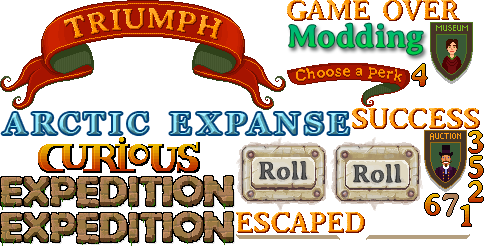
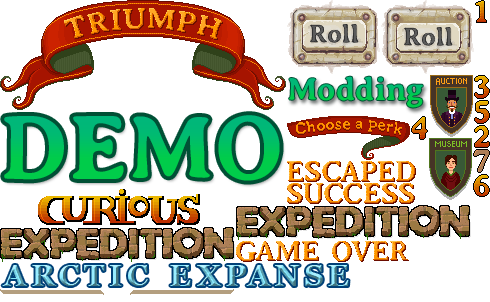
1.3.9.8

diff --git a/conf/game.conf.js b/conf/game.conf.js
@@ -420,7 +420,7 @@ var staticConfig =
   enableAchievements: true,
   showMods: true,
   showReport: false,
-  footerName: "1.3.8.6",
+  footerName: "1.3.9.8",
   sanityCheckEvents: true,
 
   // is converted to config.diaryText at run-time
@@ -661,6 +661,7 @@ var config = {
     info: {img:'hud_info_border.png', offset:60, scale: 0.5},
     action: {img:'hud_actionButton.png', offset:24, scale: 0.5},
     extraAction: {sprite:'hud_button_blank.png', offset:4, scale: 0.5},
+    demoTutorial: {sprite:'hud_button_blank.png', offset:4, scale: 1},
     menuButton: {sprite:'hud_button_menu.png', offset:7, scale:1},
     mapButton: {sprite:'hud_button_menu.png', offset:7, scale:1},
     modFrame: {sprite:'hud_frame_mod.png', offset:7, scale:1},
@@ -1024,6 +1025,16 @@ var config = {
     'txt-tip-18',
     'txt-tip-19',
     'txt-tip-20',
+    'txt-tip-21',
+    'txt-tip-22',
+    'txt-tip-23',
+    'txt-tip-24',
+    'txt-tip-25',
+    'txt-tip-26',
+    'txt-tip-27',
+    'txt-tip-28',
+    'txt-tip-29',
+    'txt-tip-30',
   ],
 
   colors: {
@@ -1195,6 +1206,7 @@ var config = {
       resetProfile: "txt-help-settings-resetProfile",
       saving: "txt-help-settings-saving",
       quit: "txt-help-settings-quit",
+      restartDemo: "txt-help-demo-restart",
 
       scale1: ["txt-help-settings-scale1", "txt-help-settings-scale-refuse"],
       scale2: ["txt-help-settings-scale2", "txt-help-settings-scale-refuse"],
@@ -1274,8 +1286,47 @@ var config = {
     loopGas: 'loop_gas',
 
     sledgeLoop: 'loop_sledge',
-  }
+  },
 
+  mapSounds: [
+    {
+      soundName: "loopVoid",
+      options: {sprawl:"spr-void"}
+    },
+    {
+      soundName: "loopChasm",
+      options: 
+      [ 
+        {sprawl:"spr-chasm"}, 
+        {sprawl:"spr-ice"}
+      ]
+    },
+    {
+      soundName: "loopWildfire",
+      options: [{sprawl:"spr-fire"}]
+    },
+    {
+      soundName: "loopVolcano",
+      options:
+       [
+        {sprawl:"spr-corrupt"}, 
+        {tile: 'tl-volcano-active'}
+       ]
+    },
+    {
+      soundName: "loopFlood",
+      options: [{sprawl:"spr-flood"}]
+    },
+    {
+      soundName: "loopDryfication",
+      options: [{sprawl:"spr-dry"}]
+    },
+    {
+      soundName: "loopGas",
+      options: [{location: 'loc-fumarole-1'}]
+    },
+  ]
+  
 };
 
 // initializing debug values. use debug.conf.js to overwrite these

diff --git a/conf/man.conf.js b/conf/man.conf.js
@@ -187,6 +187,10 @@ config.man = [
     $description: "Ends the current expedition"
   },
   {
+    keyword: 'playTutorial',
+    $description: "Begins the tutorial (the current game will be lost)"
+  },
+  {
     keyword: 'addButterfly',
     _count: "how many butterflies are found (default: 1)",
     $description: "Adds butterflies to the partys inventory"
@@ -202,6 +206,13 @@ config.man = [
     sanity: "amount of sanity to regain per day. can use bonus",
     events: "one of these events is triggered after being done with resting",
     $description: "Starts resting"
+  },
+  {
+    keyword: 'wait',
+    turns: "number of turns (days) to wait for",
+    waitLabel: "The text to display above the party on the worldmap while waiting",
+    events: "one of these events is triggered after being done with waiting",
+    $description: "Starts waiting"
   },
   {
     keyword: 'reqStatusDayAge',

diff --git a/conf/debug.conf.js b/conf/debug.conf.js
@@ -574,9 +574,9 @@ var debug = {
   skipExitWarning: true,
   skipPreRoll: true,
 
-  showDebugBar: true,
-  skipStartEvents: true,
-  autoLevel: true, // automatically level up party for higher expeditions
+  showDebugBar: false,
+  skipStartEvents: false,
+  autoLevel: false, // automatically level up party for higher expeditions
   
   // skipSaveGame: false,
   forceLocalSaveGame: true,
@@ -592,4 +592,6 @@ var debug = {
   tribeBackground: '#4b3a32',
   testStatus: 'st-sexist',
   // testGoal: 'gol-goldenTemple-grass',
+
+  isDevMode: true,
 };

diff --git a/changes.md b/changes.md
@@ -1,7 +1,51 @@
-# 1.3.8 (April 16th, 2018)
+# 1.3.9
 
 * Content
-  * Added Abomination
+  * Dendrophobia now adds a "Fear" status when walking in wood or jungle tiles without machetes. Affected characters lose -1 loyalty if staying inside for too long.
+  * Added new Game Over tips (English and German)
+* Modding
+  * Items can now add statuses to the explorer party when in the inventory with the "addStatus" keyword
+  * Added 'Show Flags Info' to Modding Dev Tools, which displays all flags on tiles and characters when enabled
+  * Added error/warning report for mods you've created
+  * MapSounds (for Sprawls, etc) are now specified in config rather than hardcoded (so they can be modded)
+  * When mods get reloaded, the loading bar is now shown
+  * Added "wait" keyword that allows for arbitrary waiting to happen (similar to rest but without sanity gain & with support for custom waiting text)
+  * Added "combatMusic" property to zones and combat events that specifies music to use instead of the default combat music
+  * Can now use mousewheel to scroll list of mods
+  * Mods now support localised descriptions
+  * Mods can specify sound files without needing an additional / at the beginning
+  * Sound files specified by mods are now checked to see if they exist
+  * If mods are disabled, clicking a mod's checkbox will enable mods and the clicked mod
+  * Images are correctly restored and reloaded when mods are enabled/disabled
+* Debug Bar
+  * When selecting an entity, that entity's JSON structure is printed to the log
+* Bugfixes
+  * Mangoes now don't survive the trip back to London
+  * Fixed issue where geysirs could get removed by river tiles
+  * Statuses that get removed by dayEvents don't get updated on the day they're removed
+  * Character perks that have no description will display their bonuses instead in the gallery
+  * Items tagged with autoremove aren't removed before very first expedition
+  * Pack animals don't display crates and saddle together
+  * Enemy attacks work correctly for patterns that contain bonuses
+  * Fix for "Leave" button not being immediately responsive after using teleport cave (now shows the time spent exploring).
+  * Can't use items while character info box is being shown (as they can overlap but the status box will be on top)
+  * Can no longer lose items marked with losable:false
+  * Fix for tile outlines flickering or not rendering between regions
+  * Fix for map containing black areas when playing a small vertical map
+  * Fix for status bonus descriptions not line-wrapping correctly
+  * Fix for abomination feeding intervals becoming ever more frequent after the first feeding
+  * Added some missing aftermath sounds
+  * Fixed villages spawning NPCs even if they are abandoned
+  * Fixed abominations always facing to the left in combat
+  * Improved loading times of web version
+  * Fixed news display having extra spaces in some languages
+  * Fixed startup freeze that happens on linux sometimes
+  * Fixed chinese-language sprites not being used
+
+# 1.3.8 (April 19th, 2018)
+
+* Content
+  * Forsaken villages spawn Abominations
   * Adjusted cultist coca stash
   * Adjusted Jungle Rot icon
   * The New Game gallery now can have multiple pages of explorers if more than 20 are unlocked
